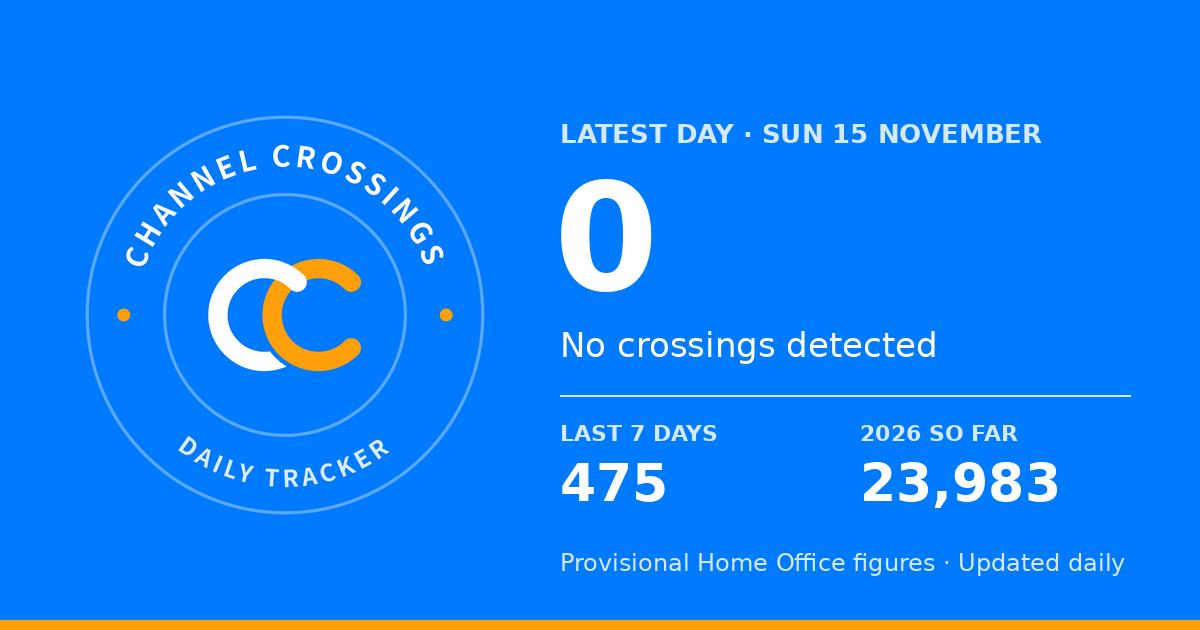
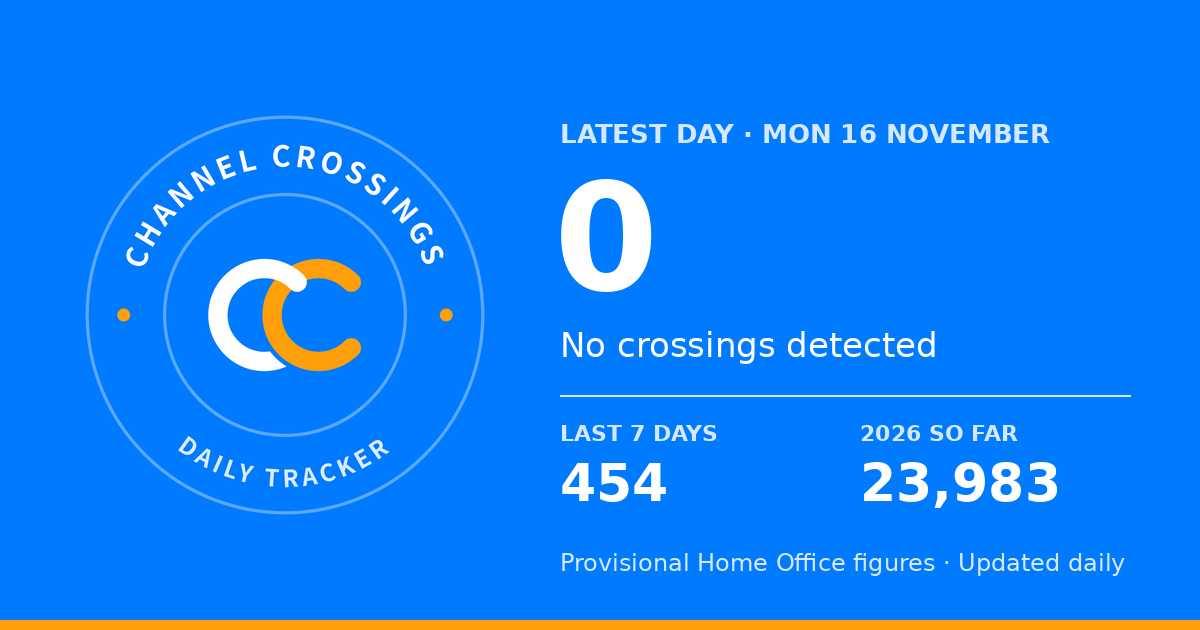
Update crossing figures

Changed region(s): [[0.6167, 0.181, 0.8942, 0.2413], [0.4933, 0.7238, 0.555, 0.8143]]

diff --git a/index.html b/index.html
@@ -11,7 +11,7 @@ function ccTheme(t){var r=document.documentElement;if(t==="auto")r.removeAttribu
 try{var t=localStorage.getItem("cc-theme");ccTheme(t==="light"||t==="auto"?t:"dark")}catch(e){ccTheme("dark")}</script>
 <script>/* the figures start downloading straight away, while the rest of the page loads */
 try{window.__data=fetch("data.json",{cache:"no-cache"}).then(function(r){if(!r.ok)throw 0;return r.json()});window.__data.catch(function(){})}catch(e){}</script>
-<meta name="description" content="No small boat crossings of the Channel were detected on Sun 15 November. 2026 so far: 23,983. Daily Home Office figures, a migrant tracker.">
+<meta name="description" content="No small boat crossings of the Channel were detected on Mon 16 November. 2026 so far: 23,983. Daily Home Office figures, a migrant tracker.">
 <meta name="robots" content="max-image-preview:large">
 <meta name="format-detection" content="telephone=no">
 <meta name="mobile-web-app-capable" content="yes">
@@ -25,14 +25,14 @@ try{window.__data=fetch("data.json",{cache:"no-cache"}).then(function(r){if(!r.o
 <meta property="og:title" content="Channel Crossings: daily small boat arrivals">
 <meta property="og:description" content="How many people crossed the Channel in small boats yesterday? Daily Home Office figures, records and live Channel conditions.">
 <meta property="og:url" content="https://channelcrossings.world/">
-<meta property="og:image" content="https://channelcrossings.world/og-image.png?v=2026-11-15">
+<meta property="og:image" content="https://channelcrossings.world/og-image.png?v=2026-11-16">
 <meta property="og:image:width" content="1200">
 <meta property="og:image:height" content="630">
 <meta property="og:image:alt" content="Channel Crossings logo with the latest daily arrivals figure">
 <meta name="twitter:card" content="summary_large_image">
 <meta name="twitter:title" content="Channel Crossings: daily small boat arrivals">
 <meta name="twitter:description" content="Daily Home Office figures for small boat arrivals, with records and live Channel conditions.">
-<meta name="twitter:image" content="https://channelcrossings.world/og-image.png?v=2026-11-15">
+<meta name="twitter:image" content="https://channelcrossings.world/og-image.png?v=2026-11-16">
 <link rel="canonical" href="https://channelcrossings.world/">
 <!-- Tells Google this page is a daily dataset. The dates are kept current by scripts/update.py -->
 <script type="application/ld+json">
@@ -55,9 +55,9 @@ try{window.__data=fetch("data.json",{cache:"no-cache"}).then(function(r){if(!r.o
   "isAccessibleForFree": true,
   "keywords": ["small boat crossings", "Channel crossings", "small boat arrivals", "migrant crossings", "boat crossing figures", "English Channel", "small boats", "migration", "UK", "Home Office", "daily statistics"],
   "creator": {"@type": "Organization", "name": "Channel Crossings", "url": "https://channelcrossings.world/", "email": "x.chancrossings@gmail.com"},
-  "temporalCoverage": "2018-01-01/2026-11-15",
+  "temporalCoverage": "2018-01-01/2026-11-16",
   "spatialCoverage": "English Channel, United Kingdom",
-  "dateModified": "2026-11-15",
+  "dateModified": "2026-11-16",
   "distribution": [{"@type": "DataDownload", "encodingFormat": "text/csv", "contentUrl": "https://channelcrossings.world/data.csv"}]
 }
 </script>
@@ -322,7 +322,7 @@ td.r,th.r{text-align:right}
       <div><span>Boats this year</span><b id="boats"></b></div>
       <div><span>Last crossing</span><b id="lc"></b></div>
     </div>
-    <p class="sr" id="heroSr" aria-live="polite">No crossings detected for Sunday, 15 November 2026</p>
+    <p class="sr" id="heroSr" aria-live="polite">No crossings detected for Monday, 16 November 2026</p>
   </section>
 
   <section class="p tape">
